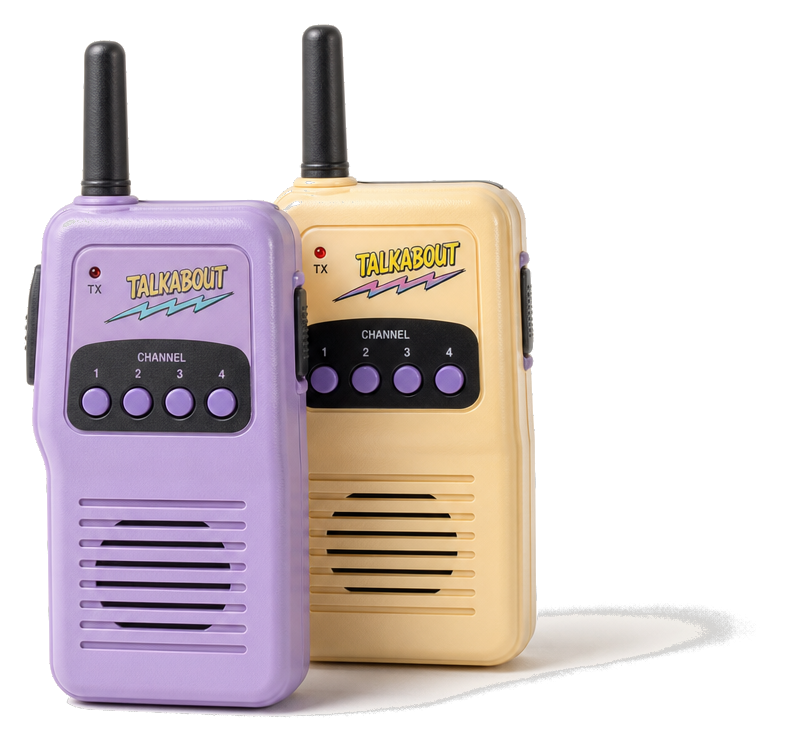
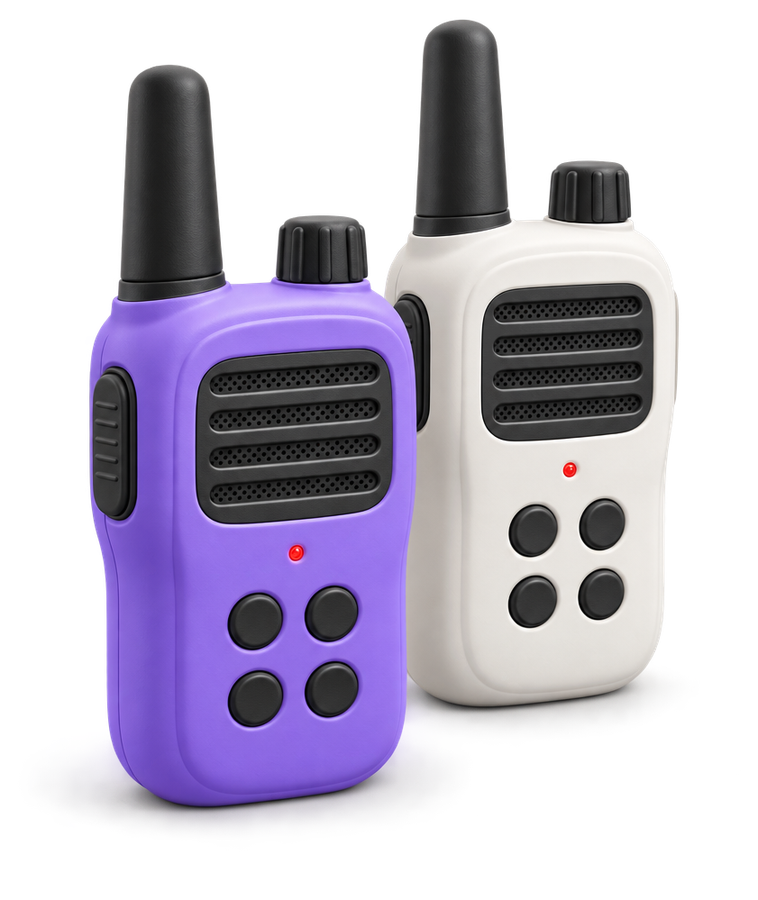
Accueil : la co-écriture passe au même rang qu'en mode Docs (titre, texte, quatre puces) et la section remonte au-dessus de « ce qu'il ne fait pas » ; talkies-walkies régénérés aux couleurs de la marque ; page SEO Word : sommaire cliquable et appel en tête
Claude-Session: https://claude.ai/code/session_01P8W3LLeLe5QXHWTDcbhje4

diff --git a/fr/index.html b/fr/index.html
@@ -1426,6 +1426,25 @@
       </div>
     </section>
 
+    <!-- TOOLS -->
+    <section class="collab-section scroll-fade">
+      <div class="collab-inner">
+        <div>
+          <div class="privacy-label">La fonction reine</div>
+          <h2 id="sf-collab-h">Écrivez à plusieurs.<br><span class="mark">En temps réel.</span></h2>
+          <p id="sf-collab-p">Final Draft ne sait pas faire ça. Commentaires, suggestions, co-écriture en direct avec plusieurs curseurs : votre co-auteur est déjà dans la pièce, parce que c'est Google Docs.</p>
+          <ul class="collab-list" id="sf-collab-list">
+            <li><span class="ck">&#10003;</span>Co-écriture en direct avec plusieurs curseurs</li>
+            <li><span class="ck">&#10003;</span>Commentaires et suggestions intégrés</li>
+            <li><span class="ck">&#10003;</span>Aucun fichier à envoyer, aucune fusion, aucun conflit</li>
+          </ul>
+        </div>
+        <div class="collab-image">
+          <img src="/obj-walkies.png?v=2" id="sf-collab-img" alt="Deux auteurs, un scénario, en temps réel">
+        </div>
+      </div>
+    </section>
+
     <!-- WHAT IT WON'T DO -->
     <section class="creed scroll-fade">
       <div class="creed-text">
@@ -1514,24 +1533,6 @@
       </div></div>
     </section>
 
-    <!-- TOOLS -->
-    <section class="collab-section scroll-fade">
-      <div class="collab-inner">
-        <div>
-          <div class="privacy-label">La fonction reine</div>
-          <h2 id="sf-collab-h">Écrivez à plusieurs.<br><span class="mark">En temps réel.</span></h2>
-          <p id="sf-collab-p">Final Draft ne sait pas faire ça. Commentaires, suggestions, co-écriture en direct avec plusieurs curseurs : votre co-auteur est déjà dans la pièce, parce que c'est Google Docs.</p>
-          <ul class="collab-list" id="sf-collab-list">
-            <li><span class="ck">&#10003;</span>Co-écriture en direct avec plusieurs curseurs</li>
-            <li><span class="ck">&#10003;</span>Commentaires et suggestions intégrés</li>
-            <li><span class="ck">&#10003;</span>Aucun fichier à envoyer, aucune fusion, aucun conflit</li>
-          </ul>
-        </div>
-        <div class="collab-image">
-          <img src="/obj-walkies.png" id="sf-collab-img" alt="Deux auteurs, un scénario, en temps réel">
-        </div>
-      </div>
-    </section>
 
     <section id="features" class="tools scroll-fade">
       <h2 id="sf-tools-h">Tous les outils, dans Google Docs.</h2>
@@ -1677,8 +1678,8 @@
           'sf-step1-h': 'Installez-le', 'sf-step1-p': "Téléchargez l'installateur pour Mac ou Windows et lancez-le. Une minute, une seule fois.",
           'sf-step2-h': 'Ouvrez Word', 'sf-step2-p': "Le groupe Screenplay est dans l'onglet Accueil. Commencez un scénario ou collez un brouillon existant.",
           'sf-priv-h': 'Votre fichier.<br>Votre ordinateur.', 'sf-priv-p': 'Votre scénario est un .docx sur votre propre machine, ou dans votre propre OneDrive, derrière la sécurité de Microsoft. Nous ne le stockons jamais, et nous ne le voyons jamais.',
-          'sf-collab-h': 'Instantané.<br><span class="mark">Natif dans Word.</span>', 'sf-collab-p': "Un modèle chargé au démarrage de Word fait d'Entrée et de Tab une partie de Word lui-même : aucun délai, pas de navigateur, pas besoin d'internet. Le fichier reste un .docx que n'importe quel producteur peut ouvrir. Et vous écrivez quand même à plusieurs : mettez-le dans OneDrive, partagez-le, tout le monde est dans le même scénario en même temps.",
-          'sf-collab-list': '<li><span class="ck">&#10003;</span>Entrée et Tab répondent instantanément, nativement</li><li><span class="ck">&#10003;</span>Fonctionne hors ligne, dans un avion, dans une salle de classe</li><li><span class="ck">&#10003;</span>Un .docx qui s\'ouvre partout, mise en forme conservée</li><li><span class="ck">&#10003;</span>À plusieurs aussi : le fichier partagé dans OneDrive, commentaires et curseurs en direct compris</li>',
+          'sf-collab-h': 'Écrivez à plusieurs.<br><span class="mark">En temps réel.</span>', 'sf-collab-p': "Final Draft ne sait pas faire ça non plus. Mettez le fichier dans OneDrive, partagez-le, et vous êtes tous dans le même scénario en même temps : curseurs en direct, commentaires, suggestions. Et Entrée et Tab restent instantanés, parce qu'ils viennent de Word lui-même et pas d'un navigateur.",
+          'sf-collab-list': '<li><span class="ck">&#10003;</span>Co-écriture en direct avec le curseur de chacun, dans OneDrive</li><li><span class="ck">&#10003;</span>Commentaires et suggestions, ceux que Word a déjà</li><li><span class="ck">&#10003;</span>Entrée et Tab instantanés, nativement, même hors ligne</li><li><span class="ck">&#10003;</span>Un .docx qui s\'ouvre partout, mise en forme conservée</li>',
           'sf-tools-h': 'Tous les outils, dans Word.', 'sf-preview-h': 'Print View', 'sf-tableread-h': 'Table Read',
           'sf-cta-p': "Screenplay Editor pour Word s'installe en une minute. Une semaine gratuite, puis 7,99 $ par mois ou 69 $ par an, la même licence que l'extension Google Docs. Résiliable à tout moment.", 'sf-cta-2': 'Ou ajoutez-le à Chrome, pour Google Docs', 'sf-cta-secured': '<span class="ck">&#10003;</span>Votre fichier reste sur votre ordinateur'
         }
@@ -1691,7 +1692,7 @@
         if (c2) c2.href = surface === 'word' ? 'https://chromewebstore.google.com/detail/scrrrr-screenplay-editor/cgnainjnmiaimmeephomhkhpcjahmfln' : 'https://workspace.google.com/marketplace/app/screenplay_editor_script_formatter_for_d/611158558476';
         document.querySelectorAll('.hero-trust li').forEach(function (li) { if (/Marche aussi/.test(li.textContent)) li.hidden = surface === 'word'; });
         var ci = document.getElementById('sf-collab-img');
-        if (ci) { ci.src = surface === 'word' ? '/obj-plane-cut.png' : '/obj-walkies.png'; ci.alt = surface === 'word' ? "Fonctionne dans un avion, sans internet" : 'Deux auteurs, un scénario, en temps réel'; }
+        if (ci) { ci.alt = surface === 'word' ? 'Deux auteurs, un scénario, dans Word' : 'Deux auteurs, un scénario, en temps réel'; }
         var dc = document.getElementById('sf-docs-chrome'), wb = document.getElementById('sf-word-chrome');
         if (dc) dc.hidden = surface === 'word';
         if (wb) wb.hidden = surface !== 'word';

diff --git a/index.html b/index.html
@@ -1440,6 +1440,25 @@
       </div>
     </section>
 
+    <!-- TOOLS -->
+    <section class="collab-section scroll-fade">
+      <div class="collab-inner">
+        <div>
+          <div class="privacy-label">The killer feature</div>
+          <h2 id="sf-collab-h">Write together.<br><span class="mark">In real time.</span></h2>
+          <p id="sf-collab-p">Final Draft can't do this. Comments, suggestions, live co-writing with multiple cursors: your co-writer is already in the room, because it's Google Docs.</p>
+          <ul class="collab-list" id="sf-collab-list">
+            <li><span class="ck">&#10003;</span>Live co-editing with multiple cursors</li>
+            <li><span class="ck">&#10003;</span>Comments and suggestions built in</li>
+            <li><span class="ck">&#10003;</span>No file sharing, no merging, no conflicts</li>
+          </ul>
+        </div>
+        <div class="collab-image">
+          <img src="obj-walkies.png?v=2" id="sf-collab-img" alt="Two writers, one script, in real time">
+        </div>
+      </div>
+    </section>
+
     <!-- WHAT IT WON'T DO -->
     <section class="creed scroll-fade">
       <div class="creed-text">
@@ -1528,24 +1547,6 @@
       </div></div>
     </section>
 
-    <!-- TOOLS -->
-    <section class="collab-section scroll-fade">
-      <div class="collab-inner">
-        <div>
-          <div class="privacy-label">The killer feature</div>
-          <h2 id="sf-collab-h">Write together.<br><span class="mark">In real time.</span></h2>
-          <p id="sf-collab-p">Final Draft can't do this. Comments, suggestions, live co-writing with multiple cursors: your co-writer is already in the room, because it's Google Docs.</p>
-          <ul class="collab-list" id="sf-collab-list">
-            <li><span class="ck">&#10003;</span>Live co-editing with multiple cursors</li>
-            <li><span class="ck">&#10003;</span>Comments and suggestions built in</li>
-            <li><span class="ck">&#10003;</span>No file sharing, no merging, no conflicts</li>
-          </ul>
-        </div>
-        <div class="collab-image">
-          <img src="obj-walkies.png" id="sf-collab-img" alt="Two writers, one script, in real time">
-        </div>
-      </div>
-    </section>
 
     <section id="features" class="tools scroll-fade">
       <h2 id="sf-tools-h">Every tool, right inside Google Docs.</h2>
@@ -1672,8 +1673,8 @@
           'sf-step1-h': 'Install it', 'sf-step1-p': 'Download the installer for Mac or Windows and run it. About a minute, once.',
           'sf-step2-h': 'Open Word', 'sf-step2-p': 'The Screenplay group is in the Home tab. Start a fresh script or paste a draft you already have.',
           'sf-priv-h': 'Your file.<br>Your computer.', 'sf-priv-p': 'Your script is a .docx on your own machine, or in your own OneDrive, behind Microsoft&rsquo;s security. We never store it, and we never see it.', 'sf-priv-us': 'your own .docx',
-          'sf-collab-h': 'Instant.<br><span class="mark">Native to Word.</span>', 'sf-collab-p': 'A template loaded when Word starts makes Enter and Tab part of Word itself: no lag, no browser, no internet needed. The file stays a .docx any producer can open. And you still write together: put it in OneDrive, share it, and everyone is in the same script at once.',
-          'sf-collab-list': '<li><span class="ck">&#10003;</span>Enter and Tab answer instantly, natively</li><li><span class="ck">&#10003;</span>Works offline, on a plane, in a classroom</li><li><span class="ck">&#10003;</span>A .docx that opens everywhere, formatting kept</li><li><span class="ck">&#10003;</span>Write together too: share the file in OneDrive, comments and live cursors included</li>',
+          'sf-collab-h': 'Write together.<br><span class="mark">In real time.</span>', 'sf-collab-p': "Final Draft can't do this either. Put the file in OneDrive, share it, and you are all in the same script at once: live cursors, comments, suggestions. And Enter and Tab stay instant, because they come from Word itself and not from a browser.",
+          'sf-collab-list': '<li><span class="ck">&#10003;</span>Live co-writing with everyone&rsquo;s cursor, in OneDrive</li><li><span class="ck">&#10003;</span>Comments and suggestions, the ones Word already has</li><li><span class="ck">&#10003;</span>Enter and Tab answer instantly, natively, even offline</li><li><span class="ck">&#10003;</span>A .docx that opens everywhere, formatting kept</li>',
           'sf-tools-h': 'Every tool, right inside Word.', 'sf-tools-p': 'No new software to learn. It all lives in one side panel.', 'sf-preview-h': 'Print View', 'sf-tableread-h': 'Table Read',
           'sf-cta-p': 'Screenplay Editor for Word installs in a minute. Start free for a week, then $7.99 a month or $69 a year, the same licence as the Google Docs extension. Cancel anytime.', 'sf-cta-2': 'Or add it to Chrome, for Google Docs', 'sf-cta-secured': '<span class="ck">&#10003;</span>Your file stays on your computer'
         }
@@ -1686,7 +1687,7 @@
         if (c2) c2.href = surface === 'word' ? 'https://chromewebstore.google.com/detail/scrrrr-screenplay-editor/cgnainjnmiaimmeephomhkhpcjahmfln' : 'https://workspace.google.com/marketplace/app/screenplay_editor_script_formatter_for_d/611158558476';
         document.querySelectorAll('.hero-trust li').forEach(function (li) { if (/Also works in/.test(li.textContent)) li.hidden = surface === 'word'; });
         var ci = document.getElementById('sf-collab-img');
-        if (ci) { ci.src = surface === 'word' ? 'obj-plane-cut.png' : 'obj-walkies.png'; ci.alt = surface === 'word' ? 'Works on a plane, no internet needed' : 'Two writers, one script, in real time'; }
+        if (ci) { ci.alt = surface === 'word' ? 'Two writers, one script, in Word' : 'Two writers, one script, in real time'; }
         var dc = document.getElementById('sf-docs-chrome'), wb = document.getElementById('sf-word-chrome');
         if (dc) dc.hidden = surface === 'word';
         if (wb) wb.hidden = surface !== 'word';

diff --git a/write-a-screenplay-in-word/index.html b/write-a-screenplay-in-word/index.html
@@ -46,9 +46,9 @@
     .page { background: #fff; box-shadow: var(--shadow-1); border-radius: 4px; padding: 34px 40px; margin: 8px 0 18px; font-family: 'Courier Prime', 'Courier New', monospace; font-size: 14px; line-height: 1; color: #111; max-width: 560px; }
     .page div { margin: 0; }
     .page .b { height: 14px; }
-    .page .ch { margin-left: 38%; }
-    .page .pa { margin-left: 30%; }
-    .page .di { margin-left: 20%; margin-right: 12%; }
+    .page .ch { margin-left: 45%; }
+    .page .pa { margin-left: 35%; margin-right: 32%; }
+    .page .di { margin-left: 23%; margin-right: 22%; }
     .page .tr { text-align: right; }
     .card { background: var(--paper-2); border-radius: var(--r-lg); box-shadow: var(--shadow-1); padding: 28px 26px; display: flex; flex-direction: column; gap: 10px; }
     .card h3 { margin: 0; font-size: var(--t-lg); font-weight: var(--w-bold); letter-spacing: var(--ls-label); }
@@ -57,8 +57,10 @@
     .cta-band { background: var(--paper-2); border-radius: var(--r-lg); box-shadow: var(--shadow-1); padding: 34px 32px; margin-top: 22px; }
     .cta-band p { margin-bottom: 18px; }
     .tail { padding-bottom: 90px; }
-    .toc { margin: 22px 0 0; padding: 0; list-style: none; max-width: 64ch; }
-    .toc li { margin-top: 6px; }
+    .toc { margin: 26px 0 0; padding: 0; list-style: none; display: flex; flex-wrap: wrap; gap: 10px 14px; max-width: 64ch; }
+    .toc li { margin: 0; }
+    .toc a { display: inline-block; font-size: var(--t-sm); color: var(--violet-dark); background: var(--paper-2); box-shadow: var(--shadow-1); border-radius: 999px; padding: 7px 14px; text-decoration: none; }
+    .toc a:hover { color: var(--paper-2); background: var(--violet-dark); }
     @media (max-width: 800px) { .grid { grid-template-columns: 1fr; } .page { padding: 24px 20px; font-size: 12px; } }
   </style>
 </head>
@@ -76,6 +78,8 @@
         <li><a href="#addin">The one-minute way</a></li>
         <li><a href="#together">Writing together in Word</a></li>
       </ul>
+      <div class="hero-actions"><a class="cta-button" href="/word">Get it for Word</a></div>
+      <p class="hero-note">Free for a week, Mac and Windows. Or read on and do it by hand, it works too.</p>
     </section>
 
     <section class="wrap section" id="format">
